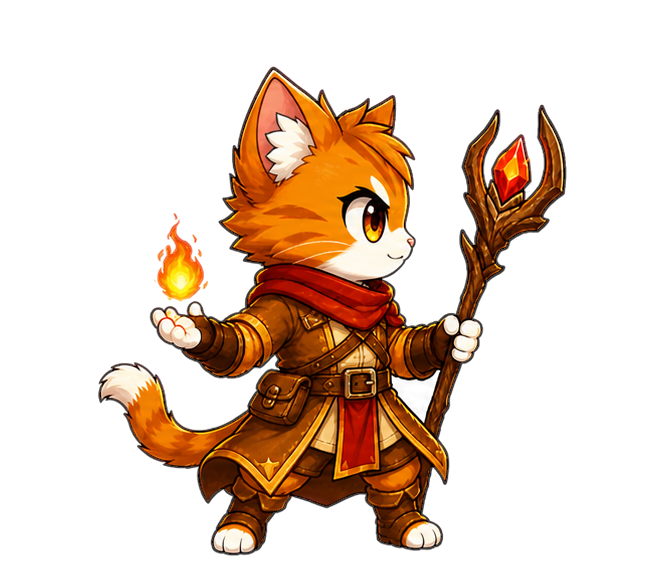
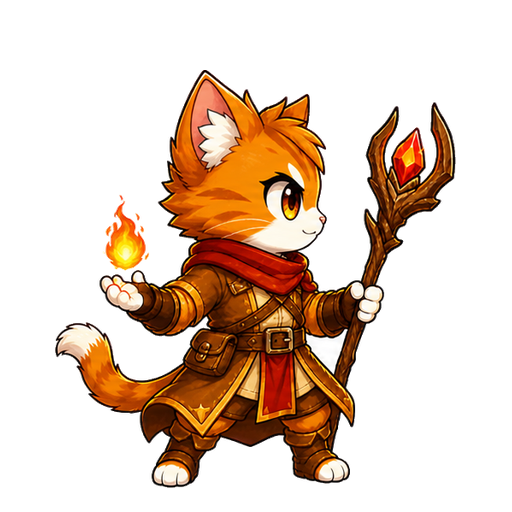
단장 시트 교체본에 값 맞추기 · 사라진 _idle 복구
궁수·법사 시트가 512 정사각 칸으로 교체됐다 (걷기 4096x512 8장, 공격
2048x512 4장). 내가 구웠던 것보다 규칙적이라 그대로 쓴다.

다만 두 가지가 어긋나 있었다:
  · captain_archer_idle.png / captain_mage_idle.png 가 지워졌다.
    없으면 대기 자세가 옛 원화로 떨어져 공격 시작 순간 질감이 바뀐다.
    공격 시트 1번 프레임에서 다시 뽑고 trim.json 에 등록했다.
  · TRIM 의 footY 가 488 인데 실측은 487 이다. 1px 이라도 발이 뜬다.

정렬 실측 (칸 512 기준):
  archer walk   8장  발밑편차 0  중심편차 1
  archer attack 4장  발밑편차 0  중심편차 1
  mage   walk   8장  발밑편차 0  중심편차 44
  mage   attack 4장  발밑편차 0  중심편차 16

법사의 중심편차는 지팡이와 불꽃이 프레임마다 움직여서다 — 발이 안 뜨므로
재생에는 문제가 없다.

Changed region(s): [[0.0938, 0.0938, 0.9062, 0.9688]]

diff --git a/game/src/view/battle/scene.js b/game/src/view/battle/scene.js
@@ -49,16 +49,16 @@ const rnd = (a, b) => a + Math.random() * (b - a);
 // 단장 공격 시트의 프레임 수. **시트마다 다르다** — 칸 폭이 시트 폭÷프레임 수라
 // 이 숫자가 틀리면 프레임이 어긋나게 잘려 캐릭터가 반씩 잘린 채 재생된다.
 //   warrior  1732x329, 433px 칸 4장
-//   archer   2712x389, 339px 칸 8장
-//   mage     2652x579, 663px 칸 4장
-// (셋 다 2026-08-26 에 정리 스크립트로 새로 구운 것이다 — 칸 크기가 제각각인
-//  것은 원화 비율이 달라서다. 프레임 수와 트림을 시트마다 따로 잰다)
+//   archer   2048x512, 512px 칸 4장
+//   mage     2048x512, 512px 칸 4장
+// (archer·mage 는 512 정사각 칸, warrior 만 433x329 다. 칸이 다른 것은 원화
+//  비율이 달라서다 — 그래서 프레임 수와 트림을 시트마다 따로 잰다)
 // 시트를 갈면 이 표를 같이 고친다.
 //
 // warrior 는 원래 9장(IDLE·WINDUP·DASH·LEAP·SLASH1~3·IMPACT·RECOVERY)이었는데
 // 제자리 공격에 DASH·LEAP·IMPACT·RECOVERY 는 안 맞아서 네 장만 남겼다:
 // IDLE -> WINDUP -> SLASH1 -> SLASH2 (단장 확정 2026-08-26).
-const ATTACK_FRAMES = { warrior: 4, archer: 8, mage: 4 };
+const ATTACK_FRAMES = { warrior: 4, archer: 4, mage: 4 };
 
 // 칸 안에서 캐릭터가 차지하는 영역. 칸에는 위아래 여백이 있어서, 이걸 안 주면
 // 캐릭터가 여백만큼 작아지고 발이 뜬다 (rig.js 의 attackTrim 설명 참고).
@@ -68,8 +68,8 @@ const ATTACK_FRAMES = { warrior: 4, archer: 8, mage: 4 };
 // 캐릭터가 작아지거나 발이 뜬다.
 const ATTACK_TRIM = {
   warrior: { h: 266, footY: 305 },
-  archer: { h: 341, footY: 365 },
-  mage: { h: 531, footY: 555 },
+  archer: { h: 420, footY: 487 },
+  mage: { h: 457, footY: 487 },
 };
 
 // 걷기 시트 — 몹을 다 잡고 다음 무리로 이동하는 구간(phase === 'walk')에 돈다.
@@ -80,8 +80,8 @@ const ATTACK_TRIM = {
 const WALK_FRAMES = { warrior: 8, archer: 8, mage: 8 };
 const WALK_TRIM = {
   warrior: { h: 357, footY: 381 },
-  archer: { h: 354, footY: 378 },
-  mage: { h: 389, footY: 413 },
+  archer: { h: 464, footY: 487 },
+  mage: { h: 464, footY: 487 },
 };
 const WALK_FPS = 12;              // 8프레임이면 한 걸음 주기 약 0.67초
 
